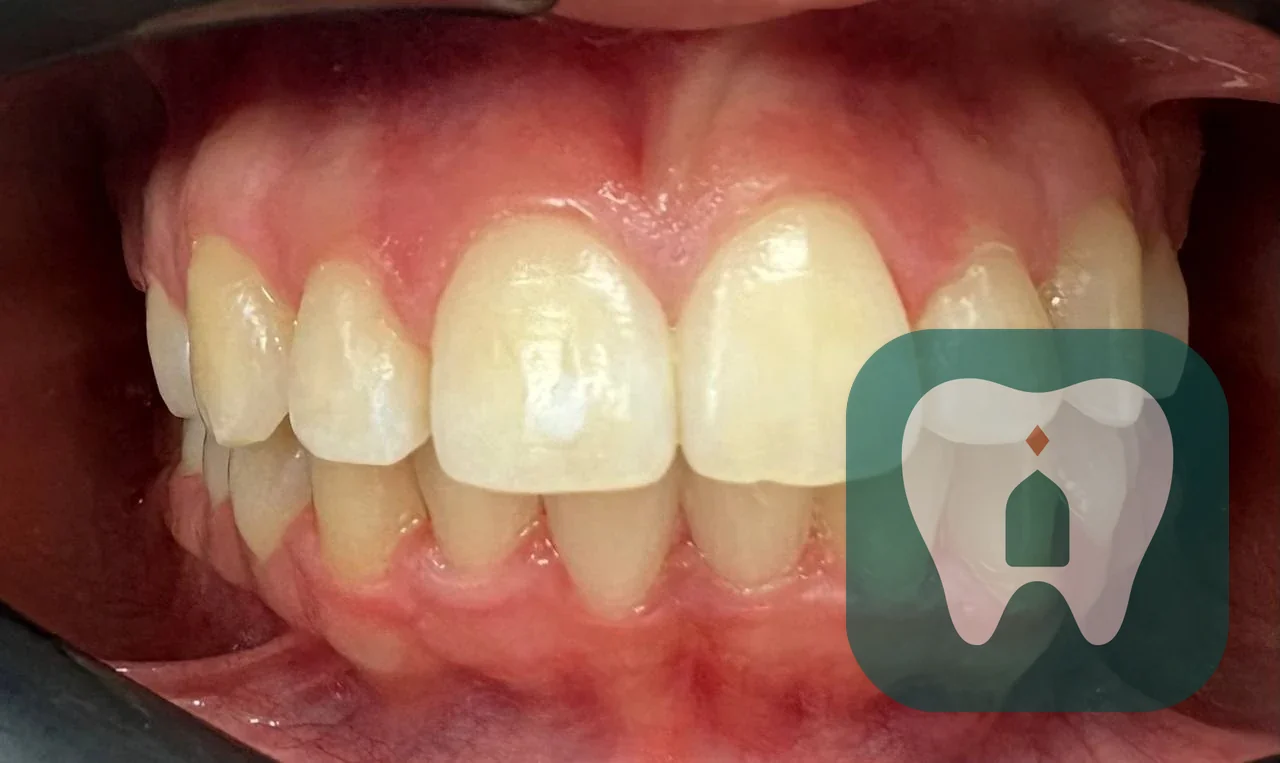
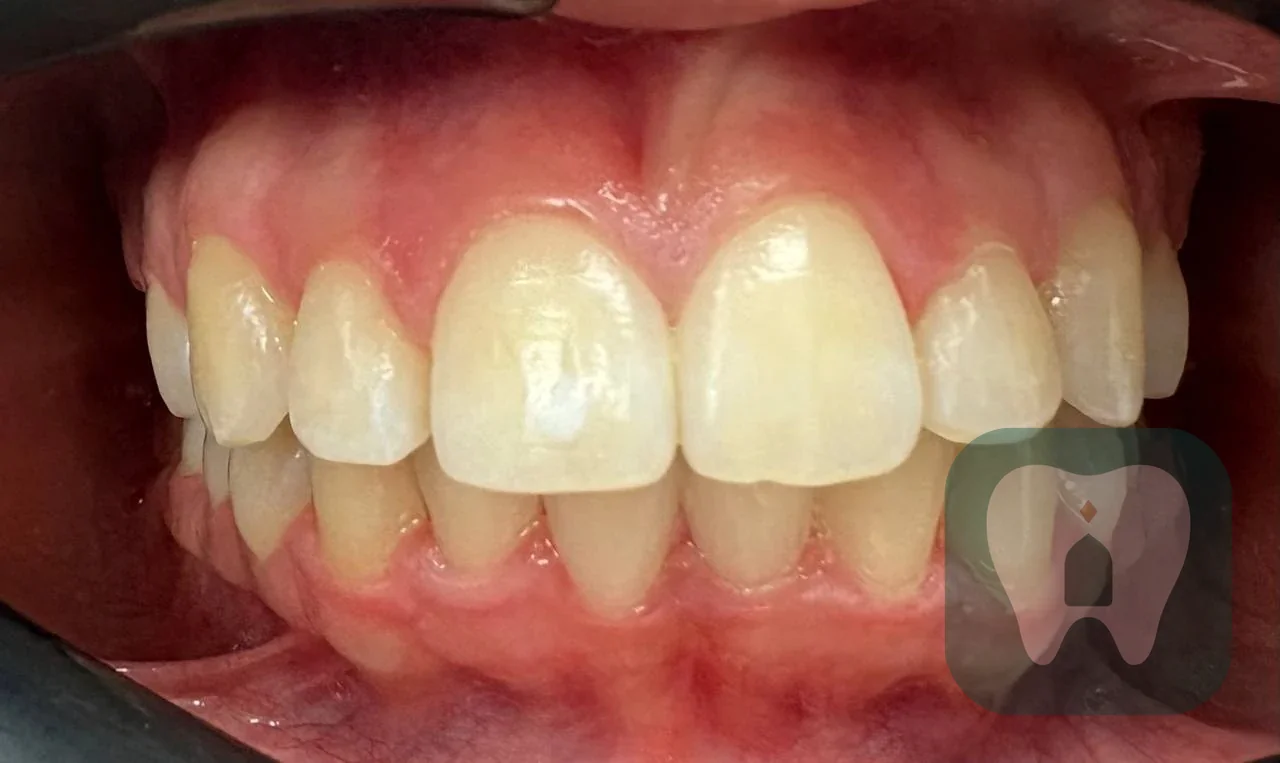
Водяной знак на фото работ: меньше и прозрачнее (24%/0.62 вместо 32%/0.78)
Знак Венеции — плотная плашка-логотип (не линейная графика, как у
Angel/Versal), поэтому на клинических фото перетягивал внимание.
Уменьшен и осветлён, halo под ним тоже слабее (0.38). Перегенерированы
все 14 фото портфолио из _originals/. Параметры и нижняя граница
читаемости зафиксированы в CLAUDE.md и в шапке скрипта.

Claude-Session: https://claude.ai/code/session_013XQ8Akc3UN6p6GWzUw4Por

Changed region(s): [[0.6562, 0.422, 0.9688, 0.9345], [0.9375, 0.8742, 0.9688, 0.9043], [0.9062, 0.9043, 0.9375, 0.9345]]

diff --git a/scripts/apply-watermark.py b/scripts/apply-watermark.py
@@ -24,13 +24,16 @@ SRC_DIR = ROOT / "assets" / "img" / "portfolio" / "_originals"
 OUT_DIR = ROOT / "assets" / "img" / "portfolio"
 WM_PATH = ROOT / "assets" / "img" / "watermark.png"
 
-WM_WIDTH_RATIO = 0.32  # watermark width as fraction of image width
+# Знак Венеции — плотная плашка-логотип (в отличие от лёгкой линейной
+# графики Angel/Versal), поэтому он меньше и прозрачнее: при 32%/78%
+# перетягивал внимание с клинического фото. Ниже 20%/45% зуб перестаёт
+# читаться и знак превращается в мутный квадрат — не опускать.
+WM_WIDTH_RATIO = 0.24  # watermark width as fraction of image width
 WM_MARGIN_RATIO = 0.03
-WM_OPACITY = 0.78
-# Сам знак светло-голубой и на белых зубных снимках почти теряется.
-# Подкладываем под него мягкий тёмный halo, чтобы оставался читаемым
+WM_OPACITY = 0.62
+# Под знаком мягкий тёмный halo, чтобы он оставался читаемым
 # и на белом, и на тёмном фоне.
-SHADOW_OPACITY = 0.55
+SHADOW_OPACITY = 0.38
 SHADOW_BLUR_RATIO = 0.014  # радиус блюра как доля от ширины знака
 
 

diff --git a/CLAUDE.md b/CLAUDE.md
@@ -117,6 +117,14 @@ contacts.
 Фото: оригинал 4:3 1200×896 (обезличено) → `_originals/` →
 `python3 scripts/apply-watermark.py <имя>.webp`.
 
+⚠ **Водяной знак Венеции слабее, чем у Angel/Versal** (решение владельца,
+28.07.2026): **24% ширины, прозрачность 0.62**, halo 0.38 — против 32%/0.78
+у тех сайтов. Причина: знак Венеции — плотная плашка-логотип, а не лёгкая
+линейная графика, и на клиническом фото перетягивал внимание. Ниже
+20%/0.45 зуб перестаёт читаться — не опускать. Параметры — в шапке
+`scripts/apply-watermark.py`; меняешь их → перегенерировать ВСЕ фото
+(запуск скрипта без аргументов, он идемпотентен — читает из `_originals/`).
+
 **Общие врачи с Angel/Versal** (drobkova, kilasoniya, kendabaeva):
 кейсы = те же кадры `_originals/` и тексты, НО в текстах Венеции
 **вычищены КТ/КЛКТ** (заменены на ТРГ/ОПТГ/«рентгенодиагностика» —
